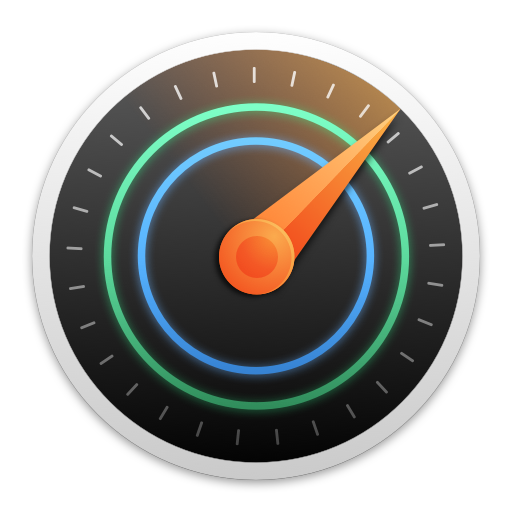
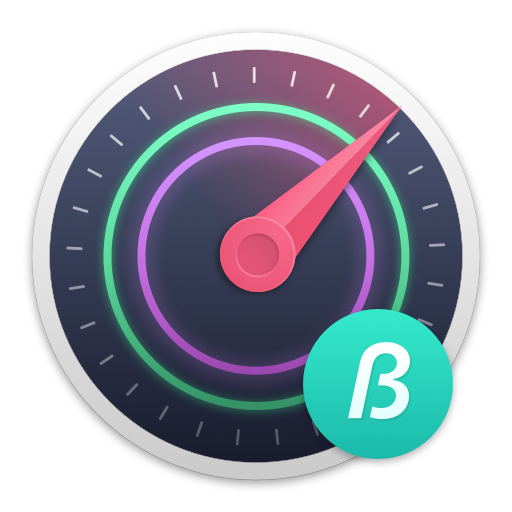
Update to 3.0

diff --git a/source/_scss/main.scss b/source/_scss/main.scss
@@ -14,7 +14,7 @@ img {
 }
 
 a {
-  color: $orange;
+  color: $brink;
 }
 
 hr {
@@ -71,25 +71,28 @@ header {
 }
 
 .screenshot {
-  border-radius: 10px;
-  margin-top: 1em;
+  border-radius: 6px;
+  margin-top: 1em auto auto;
+  max-width: 400px;
 }
 
 .main-title {
   font-size: 3em;
-  font-weight: 300;
+  font-weight: 400;
   text-align: center;
 
   .description {
-    color: lighten($background-color, 30%);
     letter-spacing: 0.04em;
   }
 }
 
 .description {
+  color: lighten($background-color, 60%);
   font-size: 1rem;
-  font-weight: 300;
-  margin-top: 0.2em;
+  font-weight: 400;
+  line-height: 1.5;
+  margin: 1rem auto auto;
+  max-width: 20rem;
 
   @include media-width(until, 320px) {
     font-size: 0.8rem;
@@ -98,7 +101,7 @@ header {
 
 main {
   @extend %container;
-  font-weight: 300;
+  font-weight: 400;
   letter-spacing: 0.01em;
   line-height: 1.5;
 
@@ -114,6 +117,10 @@ main {
 
   em {
     text-decoration: underline;
+  }
+
+  .main-container {
+    text-align: center;
   }
 }
 

diff --git a/source/_scss/_button.scss b/source/_scss/_button.scss
@@ -53,3 +53,23 @@
     opacity: 0.5;
   }
 }
+
+[type=submit] {
+  @extend %button;
+  @include button(darken($turquoise, 5%));
+  border-radius: 2rem;
+  font-size: 0.9rem;
+  font-weight: 500;
+  letter-spacing: 0.15em;
+  text-transform: uppercase;
+  padding: 1.4rem 4rem;
+  width: 100%;
+}
+
+.button {
+  @extend [type=submit];
+  display: inline-block;
+  text-align: center;
+  width: auto;
+}
+

diff --git a/source/_scss/_support.scss b/source/_scss/_support.scss
@@ -85,21 +85,3 @@ select {
   margin: auto;
   max-width: 400px;
 }
-
-[type=submit] {
-  @extend %button;
-  @include button($action-color);
-  border-radius: 2rem;
-  font-size: 1.1rem;
-  font-weight: 500;
-  width: 100%;
-}
-
-.button {
-  @extend [type=submit];
-  display: inline-block;
-  padding-left: 4rem;
-  padding-right: 4rem;
-  text-align: center;
-  width: auto;
-}

diff --git a/source/_scss/_variables.scss b/source/_scss/_variables.scss
@@ -21,14 +21,15 @@ $blue: #3b99fc;
 $dark-gray: #333;
 $light-gray: #ddd;
 $medium-gray: #999;
-$orange: #f56d2a;
+$brink: #f86888;
 $white: #fff;
 $gallery: #eee;
+$turquoise: #10d3bb;
 
 // Font Colors
 $base-background-color: #fff;
 $base-font-color: $dark-gray;
-$action-color: $orange;
+$action-color: $brink;
 
 // Border
 $base-border-color: lighten($background-color, 20%);

diff --git a/source/_layouts/default.html b/source/_layouts/default.html
@@ -21,7 +21,6 @@
       <a href="/faq">FAQ</a> –
       <a href="/support">Support</a> –
       <a href="/privacy">Privacy</a> –
-      <a href="/presskit">Presskit</a> –
       <a href="https://twitter.com/{{ site.data.presskit.twitter }}">Twitter</a>
     </footer>
   </body>

diff --git a/source/faq.md b/source/faq.md
@@ -8,76 +8,18 @@ If your question is not answered below, feel free to [get in touch](/support).
 
 <hr>
 
-## What is SpeedOfMe?
+## Where is my test result data saved?
 
-[SpeedOfMe](http://SpeedOfMe) is the API that Speedster uses to test your connection speed. It works by loading a hidden Web view that injects the SpeedOfMe script and sends the data to the native UI. As of now, this is the only viable approach to interact with the API.
-
-<hr>
-
-## Do I need a SpeedOfMe API key to use Speedster?
-
-No. You can use Speedster by purchasing consumable test packs. However it's preferable that you use your own key in case in-app purchases are deprecated in the future.
-
-<hr>
-
-## How do I get a SpeedOfMe API key?
-
-To use your own API key, you need:
-
-- A [SpeedOfMe](http://speedof.me) API key (not affiliated with Speedster).
-- A test page hosted in a unique domain associated to your key.
-
-The next two sections will detail each requirement.
-
-### Getting a SpeedOfMe API key
-
-1. Head to the SpeedOfMe [plans and pricing page](http://speedof.me/api-plans.html). There is a **free trial** in case you are not ready to subscribe yet.
-2. Click "Start Free Trial" on the plan that you are interested in. Pick with "Developer" if unsure.
-3. In the sign up page, enter your personal details. Enter `speedsterapp.nfshost.com` in the *Domain* field for now.
-4. Validate your email.
-
-### Getting a unique test page domain
-
-1. Head to the [speedster-test-page](https://github.com/kaishin/speedster-test-page) repository.
-2. Follow the setup instructions in the [README](https://github.com/kaishin/speedster-test-page/blob/gh-pages/README.md).
-3. Update the *Domain* field in both SpeedOfMe and Speedter. See the [README](https://github.com/kaishin/speedster-test-page/blob/gh-pages/README.md) for more details.
-
-<hr>
-
-## Can I use my own key alongside in-app purchases?
-
-Yes. You can toggle the *Use SpeedOfMe API key* option in the app Preferences. When turned off, tests you run will not count towards your API usage, provided that you have previously made a in-app purchase on Speedster.
-
-<hr>
-
-## Will my in-app purchases get synced across computers?
-
-No. As long as app is not making enough to cover API costs, this feature will not be added.
-
-<hr>
-
-## Can I restore my in-app purchases?
-
-You can only restore Speedster Hero. Consumable in-app purchases such as test packs are not restorable. That's how Apple designed them to work.
-
-<hr>
-
-## This app is not for me, can you refund my purchase?
-
-I can't. Please contact Apple to get your refund.
+Locally on the machine where the test was performed. It is never transmitted over the network.
 
 <hr>
 
 ## Can I change the test server?
 
-No. The SpeedOfMe API doesn't support that as of now.
+Not as of the latest version.
 
 <hr>
 
-## Why are the results often slower than other speed testing services?
-
-That's how SpeedOfMe is [designed to work](http://speedof.me/howitworks.html).
-
 ## What data does Speedster collect?
 
-Speedster does not collect any user data. Take a look at the [privacy policy](/privacy) for the details. SPEED OF ME, LLC might collect anonymous data and you are welcome to read the details on their own [privacy policy](http://speedof.me/privacy.html).
+Speedster does not collect any user data. Take a look at the [privacy policy](/privacy) for the details. The servers used for the test might keep anonymized data such as your public IP address.

diff --git a/source/privacy.md b/source/privacy.md
@@ -18,15 +18,9 @@ The *Application* follows all legal requirements to protect your privacy. Our Pr
 
 You are not required to provide the *Application* with any *Personally Identifiable Information* as a user.
 
-When you use the *Application*, the following *Non Personal Information* is collected:
+The following information may be stored on the third party servers where it's collected from:
 
-- Public IP address and ISP info using a [public geocoding API](http://ip-api.com). This information is used to sort test results by IP address.
-
-This information is kept local and is never transmitted to third parties outside the scope of the communication with the the external APIs.
-
-A Mac App Store receipt is sent to a remote server for validation. This is to ensure that the user is using an authentic copy of the app.
-
-Additionally, the provider the *Application* interfaces with ([SpeedOfMe](https://speedof.me))) may collect additional *Non Personal Information* including app launches and timestamps of the tests performed. Refer to the [provider's privacy policy](http://speedof.me/privacy.html) for more details.
+- Public IP address and ISP information is obtained by pinging a third-party server.
 
 ## 2. Does the Application collect location information of the device?
 
@@ -38,7 +32,7 @@ The *Application* does not share any *Personally Identifiable Information* with 
 
 ## 4. What are my opt-out rights?
 
-You can stop the collection of *Non Personal Information* by the *Application* easily by uninstalling the *Application*. You may use the standard uninstall processes as may be available as part of your system. If you wish the IP information data that was collected on your behalf to be deleted from the public API servers, please contact support with the IP address in question and we will do our best to fulfill your request.
+You can stop the collection of *Non Personal Information* by the *Application* easily by uninstalling the *Application*. You may use the standard uninstall processes as may be available as part of your system.
 
 ## 5. Data Retention Policy
 

diff --git a/source/index.md b/source/index.md
@@ -2,17 +2,18 @@
 layout: default
 ---
 
-<img class="screenshot" src="/images/screenshot.jpg" alt="A screenshot of Speedster">
+<p class="main-container">
+  <img class="screenshot" src="/images/screenshot.jpg" alt="A screenshot of Speedster">
+</p>
 
 <div class="description">
-  Test your Internet speed natively on OS X El Capitan without having to enable Flash or see annoying ads.
-  Make <em>1 test/day for free</em> and buy additional test packs if/when you need more.
+  Test your bandwidth speed natively on macOS Sierra without giving away your test data to third party data farms.
 </div>
 
 <div class="description">
-  Run accurate and realistic speed tests (<a href="faq#why-are-the-results-often-slower-than-other-speed-testing-services">FAQ</a>) without compromising your data. All test results are fully encrypted and never transmitted to third parties over the network (<a href="privacy">Privacy</a>).
+  Run accurate and realistic speed tests without compromising your data. All test results are fully encrypted and never transmitted to third parties over the network (<a href="privacy">Privacy</a>).
 </div>
 
-<a class="download-button" href="{{ site.data.presskit.appstore_url }}">
-  <img src="/images/appstore.svg" alt="">
-</a>
+<p class="main-container">
+  <a href="https://rink.hockeyapp.net/apps/bd76374767734e51a63ac05b892890db" class="button">Download 3.0 Beta</a>
+</p>

diff --git a/source/support.md b/source/support.md
@@ -2,8 +2,7 @@
 layout: default
 ---
 
-<form accept-charset="UTF-8" action="https://formkeep.com/f/35966f36eb79" method="POST" class="support-form">
-  <input type="hidden" name="utf8" value="✓">
+<form accept-charset="UTF-8" method="POST" action="http://formspree.io/speedster@kaishin.co" class="support-form">
   <input type="text" name="name" placeholder="Your Name" required>
   <input type="email" name="email" placeholder="Your Email" required>
   <textarea name="message" id="message" placeholder="Your Message" required></textarea>
